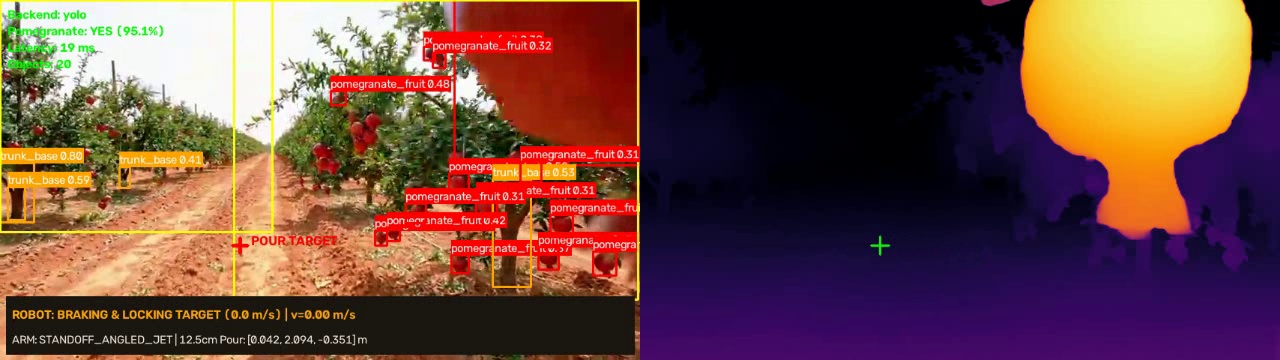
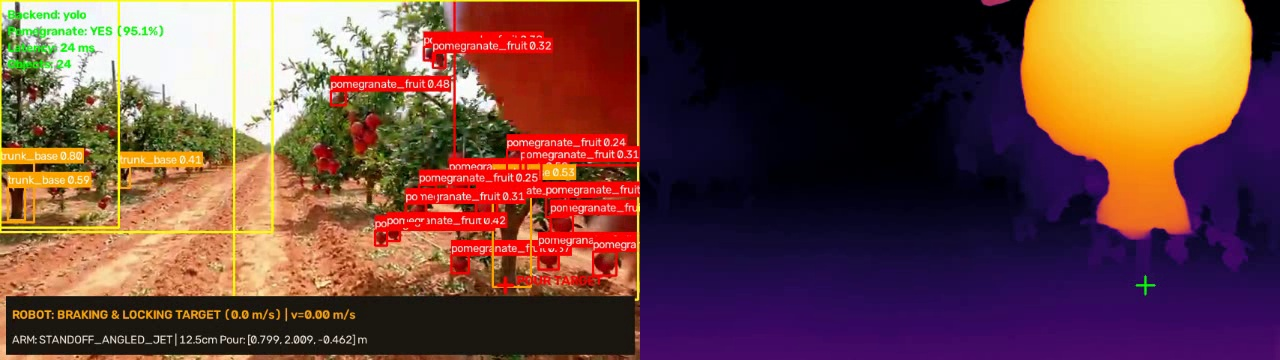
Fix foreground trunk-base selection, woody-stem fallback, and cross-alley target locking

diff --git a/src/control/target_tracker.py b/src/control/target_tracker.py
@@ -23,12 +23,14 @@ class RobotVideoState(Enum):
 
 
 class TemporalTargetStabilizer:
-    def __init__(self, ema_alpha: float = 0.22, max_jump_px: float = 80.0):
+    def __init__(self, ema_alpha: float = 0.22, max_jump_px: float = 120.0):
         self.ema_alpha = ema_alpha
         self.max_jump_px = max_jump_px
         self._smoothed_px: Optional[np.ndarray] = None
         self._locked_px: Optional[Tuple[int, int]] = None
         self._miss_streak = 0
+        self._jump_candidate: Optional[np.ndarray] = None
+        self._jump_streak = 0
 
         self.state = RobotVideoState.SCANNING_ROW
         self._hit_streak = 0
@@ -43,23 +45,53 @@ class TemporalTargetStabilizer:
         if self._cooldown_frames > 0:
             self._cooldown_frames -= 1
 
-        # ── 1. Temporal EMA smoothing with outlier-jump damping ──
+        # ── 1. Same-tree EMA smoothing + clean tree-switch gating ──
         raw_arr = np.array(raw_px, dtype=np.float32)
         if detected:
             self._miss_streak = 0
             if self._smoothed_px is None:
                 self._smoothed_px = raw_arr
+                self._jump_candidate = None
+                self._jump_streak = 0
             else:
-                delta = raw_arr - self._smoothed_px
+                ref_arr = (
+                    np.array(self._locked_px, dtype=np.float32)
+                    if self._locked_px is not None
+                    else self._smoothed_px
+                )
+                delta = raw_arr - ref_arr
                 dist = float(np.linalg.norm(delta))
+
                 if dist > self.max_jump_px:
-                    # Clamp sudden single-frame jumps instead of snapping wildly
-                    delta = delta * (self.max_jump_px / dist)
-                self._smoothed_px = self._smoothed_px + self.ema_alpha * delta
+                    # While braking or pouring, ignore distant background trees completely
+                    if self.state in (RobotVideoState.BRAKING_STABILIZE, RobotVideoState.POURING):
+                        pass
+                    else:
+                        # Require 2 consecutive consistent detections before snapping to a new tree
+                        # (never EMA-blend across the dirt alley between left & right rows).
+                        if (
+                            self._jump_candidate is not None
+                            and float(np.linalg.norm(raw_arr - self._jump_candidate)) < 90.0
+                        ):
+                            self._jump_streak += 1
+                        else:
+                            self._jump_candidate = raw_arr
+                            self._jump_streak = 1
+
+                        if self._jump_streak >= 4:
+                            self._smoothed_px = raw_arr
+                            self._jump_candidate = None
+                            self._jump_streak = 0
+                else:
+                    self._jump_candidate = None
+                    self._jump_streak = 0
+                    self._smoothed_px = self._smoothed_px + self.ema_alpha * (raw_arr - self._smoothed_px)
         else:
             self._miss_streak += 1
             if self._miss_streak > 15:
                 self._smoothed_px = None
+                self._jump_candidate = None
+                self._jump_streak = 0
 
         # ── 2. Robot Hysteresis State Machine ─────────────────────
         if self.state == RobotVideoState.SCANNING_ROW:
@@ -75,7 +107,7 @@ class TemporalTargetStabilizer:
                 self._locked_px = (int(self._smoothed_px[0]), int(self._smoothed_px[1]))
 
         elif self.state == RobotVideoState.BRAKING_STABILIZE:
-            # Refine lock gently for 12 frames while rover brakes to 0 m/s
+            # Refine lock gently for 10 frames while rover brakes to 0 m/s
             if self._smoothed_px is not None and self._state_frames <= 10:
                 self._locked_px = (int(self._smoothed_px[0]), int(self._smoothed_px[1]))
             if self._state_frames >= 15:
@@ -83,7 +115,7 @@ class TemporalTargetStabilizer:
                 self._state_frames = 0
 
         elif self.state == RobotVideoState.POURING:
-            # Pour target is FROZEN during active liquid dispensing (~0.4s = 12 frames)
+            # Pour target is FROZEN during active liquid dispensing (~0.4s = 14 frames)
             if self._state_frames >= 14:
                 self.state = RobotVideoState.RETRACT_ADVANCE
                 self._state_frames = 0
@@ -94,6 +126,7 @@ class TemporalTargetStabilizer:
                 self.state = RobotVideoState.SCANNING_ROW
                 self._state_frames = 0
                 self._locked_px = None
+                self._smoothed_px = None
 
         active_px = (
             self._locked_px

diff --git a/src/perception/pomegranate_detector.py b/src/perception/pomegranate_detector.py
@@ -292,8 +292,17 @@ class PomegranateVisionDetector:
 
         # ── Determine trunk base location ──────────────────
         if trunk_detections:
-            # Use explicit trunk_base detection
-            best_trunk = max(trunk_detections, key=lambda d: d.confidence)
+            # Prefer nearest foreground trunk (bottom y2 >= 0.65*h) over distant
+            # opposite-row trunks across the dirt alley.
+            fg_trunks = [d for d in trunk_detections if d.bbox_xyxy[3] >= h * 0.65]
+            pool = fg_trunks if fg_trunks else trunk_detections
+            candidates = [d for d in pool if d.confidence >= 0.35] or pool
+            best_trunk = max(
+                candidates,
+                key=lambda d: d.confidence
+                * ((d.bbox_xyxy[3] / max(1.0, float(h))) ** 3.0)
+                * (1.0 + min(1.5, d.area_px / max(1.0, w * h * 0.008))),
+            )
             trunk_base_x = best_trunk.bbox_center[0]
             trunk_base_y = best_trunk.bbox_xyxy[3]  # Bottom of trunk bbox
         elif tree_detections:
@@ -303,11 +312,17 @@ class PomegranateVisionDetector:
             trunk_base_x = (x1 + x2) // 2
             trunk_base_y = min(h - 5, y2 + int((y2 - y1) * 0.1))
         elif pomegranate_indicators:
-            # Fallback: use centroid of all pomegranate detections
-            cx_avg = int(np.mean([d.bbox_center[0] for d in pomegranate_indicators]))
-            cy_max = max(d.bbox_xyxy[3] for d in pomegranate_indicators)
-            trunk_base_x = cx_avg
-            trunk_base_y = min(h - 5, cy_max + 30)
+            # Try vertical woody-stem continuity in the lower canopy zone before centroid fallback
+            x_lo = max(int(w * 0.12), min(d.bbox_xyxy[0] for d in pomegranate_indicators))
+            x_hi = min(int(w * 0.88), max(d.bbox_xyxy[2] for d in pomegranate_indicators))
+            stem_xy = self._estimate_woody_trunk_base(image_bgr, x_lo, x_hi)
+            if stem_xy is not None:
+                trunk_base_x, trunk_base_y = stem_xy
+            else:
+                cx_avg = int(np.mean([d.bbox_center[0] for d in pomegranate_indicators]))
+                cy_max = max(d.bbox_xyxy[3] for d in pomegranate_indicators)
+                trunk_base_x = cx_avg
+                trunk_base_y = min(h - 5, cy_max + 30)
         else:
             trunk_base_x = w // 2
             trunk_base_y = h // 2
@@ -356,6 +371,30 @@ class PomegranateVisionDetector:
             frame_resolution=(w, h),
             detection_backend=self.backend,
         )
+
+    @staticmethod
+    def _estimate_woody_trunk_base(
+        image_bgr: np.ndarray, x_lo: int, x_hi: int
+    ) -> Optional[Tuple[int, int]]:
+        """Locate vertical woody stem in the lower canopy zone when trunk_base is unlabelled."""
+        h, w = image_bgr.shape[:2]
+        if h < 40 or w < 40 or x_hi - x_lo < 20:
+            return None
+        y1, y2 = int(h * 0.62), int(h * 0.92)
+        roi = image_bgr[y1:y2, :].astype(np.float32)
+        b, g, r = roi[:, :, 0], roi[:, :, 1], roi[:, :, 2]
+        exg = 2.0 * g - r - b
+        gray = cv2.cvtColor(image_bgr[y1:y2, :], cv2.COLOR_BGR2GRAY).astype(np.float32)
+        gx = np.abs(cv2.Sobel(gray, cv2.CV_32F, 1, 0, ksize=3))
+        gy = np.abs(cv2.Sobel(gray, cv2.CV_32F, 0, 1, ksize=3))
+        is_stem = (exg < 15.0) & (gray > 75.0) & (gx > 12.0) & (gx > gy)
+        col_frac = (cv2.blur(is_stem.astype(np.float32), (15, 1)) > 0.10).mean(axis=0)
+        col_frac = cv2.blur(col_frac.reshape(1, -1), (15, 1)).ravel()
+        seg = col_frac[x_lo:x_hi]
+        if seg.size == 0 or float(np.max(seg)) < 0.35:
+            return None
+        best_x = x_lo + int(np.argmax(seg))
+        return (best_x, y2)
 
     # ───────────────────────────────────────────────────────
     #  HSV Fallback (legacy — used when no YOLO weights exist)

diff --git a/src/verify_orchard_video.py b/src/verify_orchard_video.py
@@ -39,7 +39,7 @@ def main():
     if args.start_sec > 0:
         cap.set(cv2.CAP_PROP_POS_MSEC, args.start_sec * 1000.0)
 
-    detector = PomegranateVisionDetector(weights_path=args.weights, confidence_threshold=0.70, nms_conf=0.30)
+    detector = PomegranateVisionDetector(weights_path=args.weights, confidence_threshold=0.70, nms_conf=0.22)
     depth = MonocularDepthLocalizer()
     kin = ArmKinematics()
     tracker = TemporalTargetStabilizer(ema_alpha=0.20, max_jump_px=75.0)
